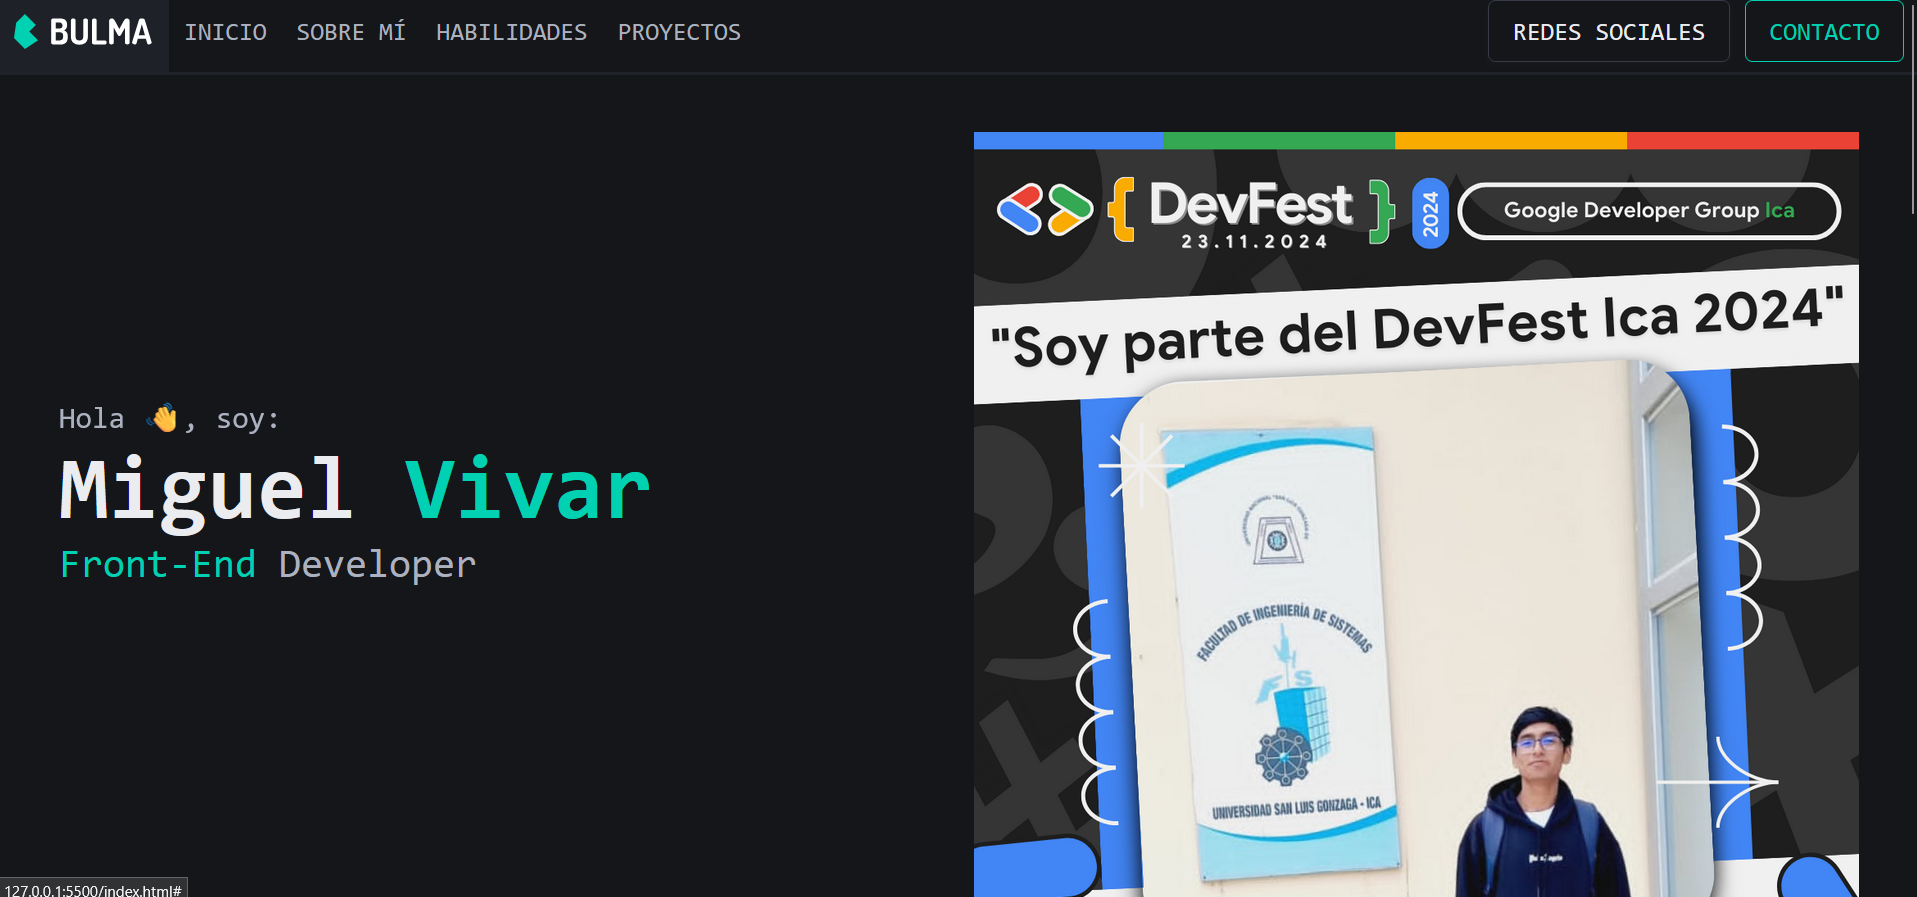
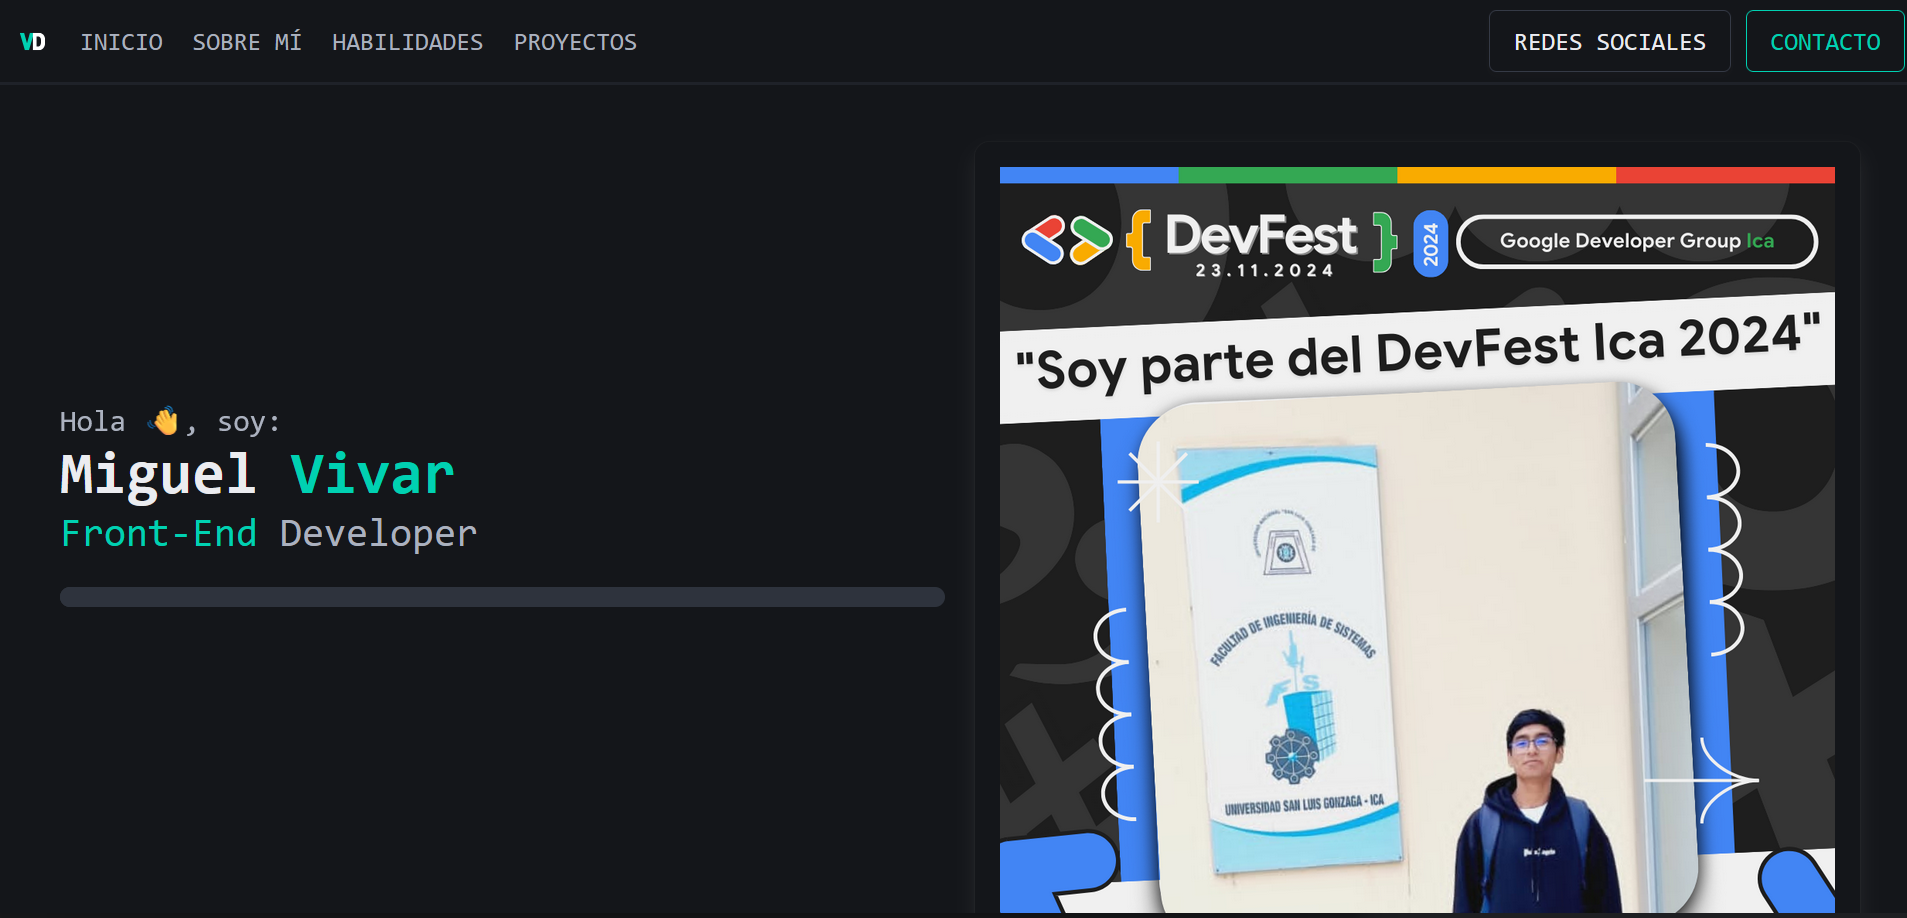
Mejora 6

diff --git a/index.html b/index.html
@@ -7,7 +7,8 @@
     <meta name="keywords" content="portafolio, desarrollador web, programación, Miguel Vivar, GitHub Pages, desarrollo web, proyectos de programación, VivarDev">
     <meta name="author" content="Miguel Vivar, VivarDev">
     <link rel="icon" href="src/img/logo.svg" type="image/x-icon">
-    <link rel="stylesheet" href="build/css/bulma.css">
+    <link rel="stylesheet" href="https://cdn.jsdelivr.net/npm/bulma@1.0.2/css/bulma.min.css">
+    <link rel="stylesheet" href="build/css/style.css">
     <title>VivarDev</title>
 </head>
 <body class="is-family-monospace">
@@ -75,7 +76,7 @@
                 <picture class="image is-540x540">
                     <source srcset="build/img/Miguel Vivar.png.avif" type="image/avif">
                     <source srcset="build/img/Miguel Vivar.webp" type="image/webp">
-                    <img loading="lazy" src="build/img/Miguel Vivar.png" alt="imagen mía">
+                    <img class="box" loading="lazy" src="build/img/Miguel Vivar.png" alt="imagen mía">
                 </picture>
             </div>
         </section>
@@ -428,12 +429,12 @@
         </section>
         <!-- Fin Redes Sociales -->
         <!-- Inicio Contacto -->
-        <section class="section" id="contacto">
+        <section class="section ff" id="contacto">
             <h2 class="title is-2 has-text-white has-text-centered mb-6">
                 Contáctame 📞
             </h2>
             <form class="columns">
-                <div class="column ff">
+                <div class="column">
                     <div class="field">
                         <label class="label ll">Nombre:</label>
                         <div class="control">

diff --git a/build/css/style.css b/build/css/style.css
@@ -1,0 +1,63 @@
+p {
+    font-size: 1.4rem;
+}
+@media (min-width: 769px) {
+    .proyects {
+        display: grid;
+        grid-template-columns: repeat(3, 1fr);
+    }
+}
+.scalee {
+    transition: .5s;
+}
+.scalee:hover {
+    transform: scale(1.3);
+}
+.ll {
+    font-size: 2rem;
+}
+.ff {
+    border: var(--bulma-primary) solid;
+    border-radius: 1rem;
+}
+.dd {
+    display: flex;
+    flex-direction: column;
+    justify-content: center;
+    text-align: center;
+}
+.dd a {
+    margin: 1rem;
+    transition: .3s;
+}
+.dd a:hover {
+    transform: scale(1.2);
+}
+@media (max-width: 768px) {
+    .hh {
+        font-size: 1rem;
+    }
+}
+.image.is-384x384 {
+    height: auto;
+    max-width: 384px;
+}
+@media (max-width: 431px) {
+    .image.is-540x540 {
+        max-height: 240px;
+        width: auto;
+    }
+}
+@media (min-width: 767px) {
+    .image.is-540x540 {
+        max-height: 580px;
+        width: auto;
+    }
+}
+.footer {
+    --bulma-footer-background-color: var(--bulma-scheme-main-bis);
+    --bulma-footer-color: false;
+    --bulma-footer-padding: 3rem 1.5rem;
+    background-color: var(--bulma-footer-background-color);
+    padding: var(--bulma-footer-padding);
+}
